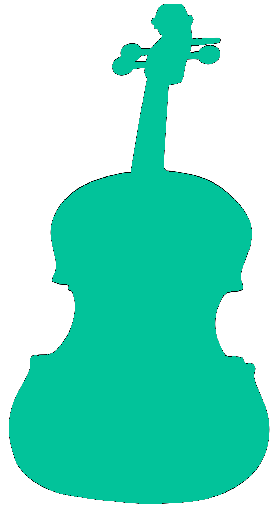
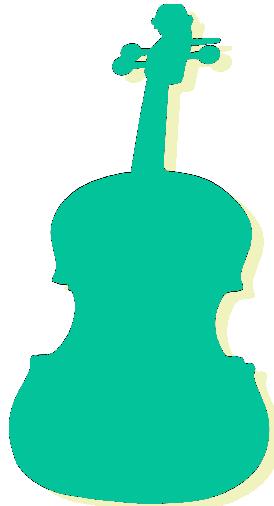
Ajout de filter sur les images. Jeu complètement fonctionnel.

diff --git a/script.js b/script.js
@@ -3,6 +3,10 @@ let sonJoue = document.querySelector(".jeu");
 let chemin = "Sons/Jeu/";
 let btnTester = document.querySelector("button");
 let btnNotes = document.querySelectorAll(".note");
+let leResultat= document.querySelector("#leResultat");
+let imgNote = document.querySelector("#imgNote");
+let cheminImgNote = "Images/Jeu/";
+let rentrerUnePremièreFois = 0;
 
 /*Déclarations de mes fonctions*/
 
@@ -12,50 +16,65 @@ function choisirUnSon(){
     switch (numeroAleatoire){
         case 1:
             chemin = chemin + "Do.mp3"
+            cheminImgNote = cheminImgNote+"Do.png";
         break;
         case 2:
             chemin = chemin + "DoD.mp3"
+            cheminImgNote = cheminImgNote+"DoD.png";
         break;
         case 3:
             chemin = chemin + "Re.mp3"
+            cheminImgNote = cheminImgNote+"Re.png";
         break;
         case 4:
             chemin = chemin + "ReD.mp3"
+            cheminImgNote = cheminImgNote+"ReD.png";
         break;
         case 5:
             chemin = chemin + "Mi.mp3"
+            cheminImgNote = cheminImgNote+"Mi.png";
         break;
         case 6:
             chemin = chemin + "Fa.mp3"
+            cheminImgNote = cheminImgNote+"Fa.png";
         break;
         case 7:
             chemin = chemin + "FaD.mp3"
+            cheminImgNote = cheminImgNote+"FaD.png";
         break;
         case 8:
             chemin = chemin + "Sol.mp3"
+            cheminImgNote = cheminImgNote+"Sol.png";
         break;
         case 9:
             chemin = chemin + "SolD.mp3"
+            cheminImgNote = cheminImgNote+"SolD.png";
         break;
         case 10:
             chemin = chemin + "La.mp3"
+            cheminImgNote = cheminImgNote+"La.png";
         break;
         case 11:
             chemin = chemin + "LaD.mp3"
+            cheminImgNote = cheminImgNote+"LaD.png";
         break;
         case 12:
             chemin = chemin + "Si.mp3"
+            cheminImgNote = cheminImgNote+"Si.png";
         break;
     }
+   
+
     modifierSonJoue();
 }
 
 /*Fonction qui permet de changer la source de la balise audio*/
 function modifierSonJoue(){
     sonJoue.src= chemin;
-    console.log(sonJoue);
     sonJoue.load();
+    if(rentrerUnePremièreFois>0){
     sonJoue.play();
+    }
 }
 
 choisirUnSon();
@@ -66,18 +85,27 @@ function testerSons(){
     btnNotes.forEach((btnNote)=>{
         btnNote.addEventListener("click",(event)=>{
             event.preventDefault();
-            let lanote = btnNote.textContent;
-            console.log(lanote);
-            let laNoteCorrigee = lanote.replace("#","D");
-            console.log(`le hashtag remplacé :`+laNoteCorrigee);
-            if (chemin.includes(lanote)){
-                console.log("Réussi");
+            let lanote = btnNote.textContent;         
+            let laNoteCorrigee = lanote.replace("#","D"); 
+            const nomFichier = chemin.split("/");   
+            const nomFichierNettoye=nomFichier[2].split(".")[0];
+            if (laNoteCorrigee===nomFichierNettoye){
+                leResultat.textContent="Réussi";
+                imgNote.src=cheminImgNote;
             }else{
-                console.log("Erreur!! Recommencer");
-
+               leResultat.textContent="Vous y êtes presque! Recommencer";
             }
         });
     });
 }
 
 testerSons();
+btnTester.addEventListener("click", ()=>{
+   chemin = "Sons/Jeu/";
+   cheminImgNote = "Images/Jeu/";
+   imgNote.src="";
+   leResultat.textContent="Jouez!";
+   rentrerUnePremièreFois=1;
+   choisirUnSon();
+   testerSons();
+});

diff --git a/index.html b/index.html
@@ -8,17 +8,19 @@
     <title>Sonologos</title>
 </head>
 <body>
+    
+    <img src="Images/favicon.png" alt="Le logo de sonologue un homme qui porte des lunettes en forme de croche." class="logo">
     <h1>Bienvenue les <span>sonologues</span></h1>
     <h2>La seule place où l'on étudie le son en profondeur</h2>
     <section class="premiereSectionAccueil">
-        <img src="Images/FALL.png" alt="" width="650px" height="650px">
+        <img src="Images/FALL.png" alt="" width="650px" height="650px" id="imgFALL">
         <div class="blocParagraphePlusAudio">
             <p>Je suis FALL un compositeur de musique classique. Mon principal intérêt en tant que compositeur est de créer des pièces pour mes jeux vidéos afin de vous offrir une expérience de jeu inoubliable. Ici chaque mélodie provoque en vous le besoin de la fredonner sous la douche. Cet audio est une mélodie de Mozart que j'aime beaucoup et qui est un de mes modèles. Cette dance allemande utilise les trois instruments ici présent: violon, alto et violoncelle.</p>
             <audio controls>
             <source src="Sons/6_German_Dances_K_606_No_1.mp3" type="audio/mpeg">
             Votre navigateur ne supporte pas la lecture audio.
             </audio>
-            <p>Audio provenant de Youtube : Capella Istropolitana - Topic</p>
+            <p id="petitTexte">Audio provenant de Youtube : Capella Istropolitana - Topic</p>
         </div>
         <div class="mosaiqueAccueil">
             <img src="Images/alto.png" alt="">
@@ -42,19 +44,26 @@
             Votre navigateur ne supporte pas la lecture audio.
             </audio>
             <p>Quel est la note qui est jouée?</p>
-            <div class="GrilleDeNotes">
-                <p class="note">Do</p>
-                <p class="note">Do#</p>
-                <p class="note">Ré</p>
-                <p class="note">Ré#</p>
-                <p class="note">Mi</p>
-                <p class="note">Fa</p>
-                <p class="note">Fa#</p>
-                <p class="note">Sol</p>
-                <p class="note">Sol#</p>
-                <p class="note">La</p>
-                <p class="note">La#</p>
-                <p class="note">Si</p>
+            <p id="leResultat">Jouez!</p>
+            
+            <div class="blocGrilleJeu">
+                <div class="GrilleDeNotes">
+                    <p class="note">Do</p>
+                    <p class="note">Do#</p>
+                    <p class="note">Re</p>
+                    <p class="note">Re#</p>
+                    <p class="note">Mi</p>
+                    <p class="note">Fa</p>
+                    <p class="note">Fa#</p>
+                    <p class="note">Sol</p>
+                    <p class="note">Sol#</p>
+                    <p class="note">La</p>
+                    <p class="note">La#</p>
+                    <p class="note">Si</p>
+                </div>
+                <div>
+                    <img id="imgNote" src="" alt="">
+                </div>
             </div>
             <button type="submit">Tester</button>
         </div>

diff --git a/style.css b/style.css
@@ -39,6 +39,10 @@ p{
 
 /*Page d'accueil*/
 
+.logo{
+    display: block;
+    margin: auto;
+}
 .premiereSectionAccueil{
     display: flex;
     gap:50px;
@@ -50,6 +54,12 @@ p{
 .premiereSectionAccueil img{
     border-radius: 5px;
 }
+#imgFALL{
+    filter: drop-shadow(10px 10px 4px var(--couleur-turquoise-normale));
+}
+#petitTexte{
+    font-size: var(--petit-Texte);
+}
 .premiereSectionAccueil p{
     width:500px;
 }
@@ -59,6 +69,7 @@ p{
 .citationAccueil{
     display: flex;
     flex-direction: column;
+    filter: drop-shadow(10px 10px 4px var(--couleur-turquoise-normale));
     background-color: var(--couleur-turquoise-tres-pale);
     color: var(--couleur-turquoise-tres-fonce);
     padding:20px 75px;
@@ -92,12 +103,16 @@ p{
     display:grid;
     grid-template-columns: 1fr 1fr 1fr 1fr;
     gap: 15px;
-    border: 2px solid var(--couleur-turquoise-normale);
+    border: 4px solid var(--couleur-turquoise-normale);
     border-radius: 5px;
+    padding: 20px;
 }
 .GrilleDeNotes p:hover{
     border: 2px solid var(--couleur-turquoise-normale);
     border-radius: 5px;
+}
+.blocGrilleJeu{
+    display: block;
 }
 button{
     width: 200px;
@@ -107,7 +122,9 @@ button{
     color: var(--couleur-turquoise-normale);
     margin-bottom: 10vh;;
 }
-
+#imgNote{
+    border-radius: 5px;
+}
 
 
 @media(max-width:1024px){
@@ -115,5 +132,4 @@ button{
         flex-direction: column;
         align-items: center;
     }
-
 }
